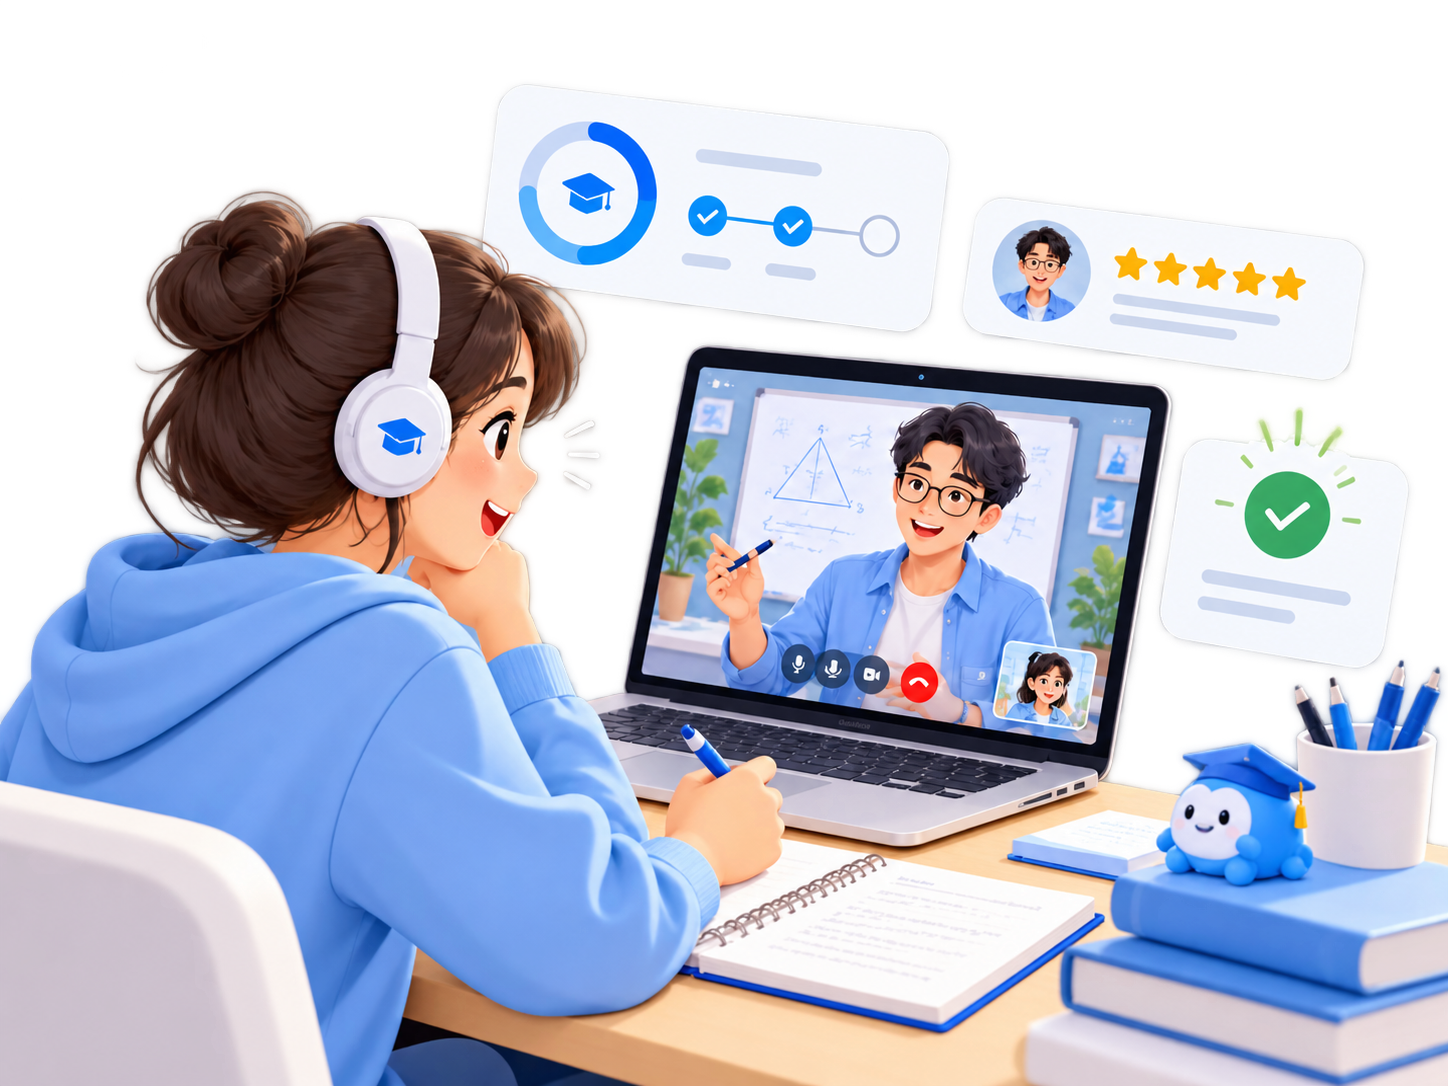
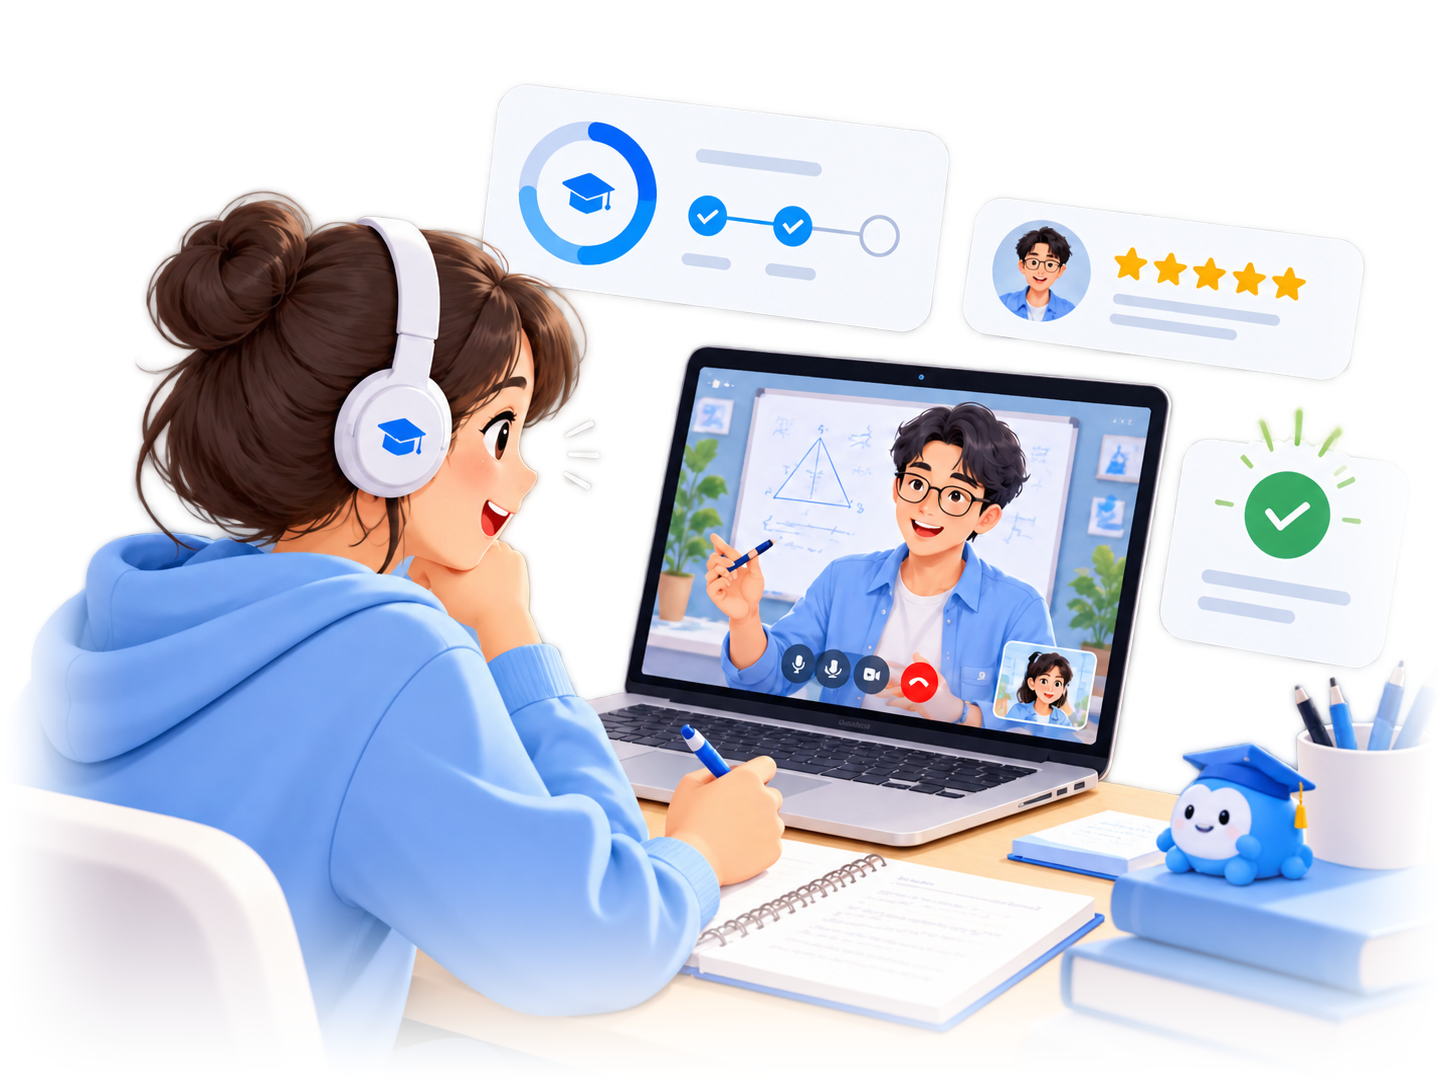
feat(auth): remove 12+ tutors badge and integrate illustration seamlessly with background

Changed region(s): [[0.0, 0.5166, 1.0, 1.0]]

diff --git a/src/frontend/src/pages/auth/Register.jsx b/src/frontend/src/pages/auth/Register.jsx
@@ -1,8 +1,7 @@
-import React, { useState, useEffect } from 'react';
+import React, { useState } from 'react';
 import { useNavigate, Link } from 'react-router-dom';
 import {
   GraduationCap,
-  ShieldCheck,
   BarChart3,
   User,
   Mail,
@@ -11,14 +10,11 @@ import {
   Eye,
   EyeOff,
   ArrowRight,
-  ChevronRight,
   AlertCircle,
 } from 'lucide-react';
 import { cn } from '@/lib/cn';
-import Avatar from '@/components/ui/Avatar';
 import { useToast } from '@/components/ui/Toast';
 import { useAuthStore } from '@/store/authStore';
-import { api } from '@/services/api';
 import { externalAuthService } from '@/services/externalAuth.service';
 import AuthHeader from '@/components/layout/AuthHeader';
 
@@ -61,43 +57,6 @@ export default function Register() {
   const [fieldErrors, setFieldErrors] = useState({});
   const [loading, setLoading] = useState(false);
   const [socialLoading, setSocialLoading] = useState(false);
-
-  // Truy vấn danh sách gia sư cho card minh họa
-  const [tutorStats, setTutorStats] = useState({
-    totalCount: 0,
-    topTutors: [],
-    loading: true,
-  });
-
-  useEffect(() => {
-    const controller = new AbortController();
-
-    api
-      .get('/tutors?pageSize=3', { signal: controller.signal })
-      .then((res) => {
-        const pagedData = res?.data ?? res;
-        const items = Array.isArray(pagedData?.items) ? pagedData.items : [];
-        const count = typeof pagedData?.totalCount === 'number' ? pagedData.totalCount : items.length;
-
-        setTutorStats({
-          totalCount: count,
-          topTutors: items,
-          loading: false,
-        });
-      })
-      .catch((err) => {
-        // Bỏ qua lỗi do hủy request khi component unmount
-        if (err?.name === 'CanceledError' || err?.code === 'ERR_CANCELED') {
-          return;
-        }
-        console.warn('Lỗi kết nối API gia sư cho trang đăng ký:', err);
-        setTutorStats((prev) => ({ ...prev, loading: false }));
-      });
-
-    return () => {
-      controller.abort();
-    };
-  }, []);
 
   // Xóa lỗi inline của trường khi người dùng nhập liệu lại
   const clearFieldError = (field) => {
@@ -336,122 +295,76 @@ export default function Register() {
               <span className="text-neutral-800">{isTutor ? 'Bảo vệ thanh toán 12h' : 'Bảo chứng Escrow 100%'}</span>
             </div>
 
-            {/* Illustration with Dynamic Live Floating Badges */}
-            <div className="relative mt-5 sm:mt-6 max-w-[520px] w-full select-none">
+            {/* Illustration integrated seamlessly into background like hero sections */}
+            <div className="relative mt-5 sm:mt-6 max-w-[520px] w-full select-none flex items-center justify-center">
+              {/* Ambient radial halo glow behind illustration */}
+              <div
+                className={cn(
+                  'pointer-events-none absolute left-1/2 top-1/2 -z-0 h-[320px] w-[320px] sm:h-[380px] sm:w-[380px] -translate-x-1/2 -translate-y-1/2 rounded-full blur-3xl transition-colors duration-500',
+                  isTutor ? 'bg-emerald-100/60' : 'bg-blue-200/50'
+                )}
+                aria-hidden="true"
+              />
+
               {isTutor ? (
-                <div className="relative w-full aspect-[16/10] sm:aspect-[4/3] rounded-2xl overflow-hidden border border-neutral-200/80 shadow-brand-md">
+                <div className="relative z-10 w-full aspect-[16/10] sm:aspect-[4/3] rounded-2xl overflow-hidden shadow-brand-md">
                   <img
                     src="/images/hero-become-tutor.jpg"
                     alt="Gia sư TutorHub giảng dạy chuyên nghiệp"
                     className="w-full h-full object-cover object-center select-none pointer-events-none transition-all duration-300"
                     loading="eager"
                   />
-                  <div className="absolute inset-0 bg-gradient-to-t from-black/25 via-transparent to-transparent pointer-events-none" />
+                  <div className="absolute inset-0 bg-gradient-to-t from-black/20 via-transparent to-transparent pointer-events-none" />
                 </div>
               ) : (
-                <img
-                  src="/images/auth-student-classroom.png"
-                  alt="Hành trình học tập 1 kèm 1 cùng TutorHub"
-                  className="w-full h-auto object-contain select-none pointer-events-none transition-all duration-300"
-                  loading="eager"
-                />
+                <div className="relative z-10 w-full flex items-center justify-center">
+                  <img
+                    src="/images/auth-student-classroom.png"
+                    alt="Hành trình học tập 1 kèm 1 cùng TutorHub"
+                    className="pointer-events-none relative h-auto w-full select-none object-contain transition-all duration-300"
+                    loading="eager"
+                  />
+                </div>
               )}
 
-              {/* Floating Badge 1: Top Right */}
-              {isTutor ? (
-                <div
-                  className="absolute top-4 sm:top-5 right-2 sm:right-3 bg-white/95 backdrop-blur-md p-2.5 sm:p-3 rounded-[16px] sm:rounded-[18px] shadow-brand-md border border-white/80 max-w-[145px] sm:max-w-[160px] text-left z-20 animate-float"
-                  style={{ animationDuration: '5s' }}
-                >
-                  <div className="flex items-center justify-between mb-1">
-                    <div className="w-6 h-6 sm:w-7 sm:h-7 rounded-lg bg-emerald-50 text-emerald-600 flex items-center justify-center">
-                      <BarChart3 className="w-3.5 h-3.5 sm:w-4 sm:h-4" />
+              {/* Floating Badges for Tutor Role */}
+              {isTutor && (
+                <>
+                  <div
+                    className="absolute top-4 sm:top-5 right-2 sm:right-3 bg-white/95 backdrop-blur-md p-2.5 sm:p-3 rounded-[16px] sm:rounded-[18px] shadow-brand-md border border-white/80 max-w-[145px] sm:max-w-[160px] text-left z-20 animate-float"
+                    style={{ animationDuration: '5s' }}
+                  >
+                    <div className="flex items-center justify-between mb-1">
+                      <div className="w-6 h-6 sm:w-7 sm:h-7 rounded-lg bg-emerald-50 text-emerald-600 flex items-center justify-center">
+                        <BarChart3 className="w-3.5 h-3.5 sm:w-4 sm:h-4" />
+                      </div>
+                      <div className="w-4 h-4 sm:w-5 sm:h-5 rounded-full bg-emerald-50 text-emerald-600 flex items-center justify-center text-[9px] sm:text-[10px] font-bold">
+                        ✓
+                      </div>
                     </div>
-                    <div className="w-4 h-4 sm:w-5 sm:h-5 rounded-full bg-emerald-50 text-emerald-600 flex items-center justify-center text-[9px] sm:text-[10px] font-bold">
-                      ✓
-                    </div>
-                  </div>
-                  <p className="text-[12px] sm:text-[13px] font-bold text-fg leading-tight mt-1">
-                    Thu nhập linh hoạt
-                  </p>
-                  <p className="text-[9.5px] sm:text-[10.5px] text-neutral-500 leading-snug mt-0.5">
-                    Tự định giá & nhận giải ngân minh bạch 12h
-                  </p>
-                </div>
-              ) : null}
-
-              {/* Floating Badge 2: Bottom Left */}
-              {isTutor ? (
-                <div
-                  className="absolute bottom-4 sm:bottom-6 left-2 sm:left-3 bg-white/95 backdrop-blur-md p-2 sm:p-2.5 sm:px-3.5 rounded-xl sm:rounded-2xl shadow-brand-md border border-white/80 flex items-center gap-2 sm:gap-3 z-20 animate-float"
-                  style={{ animationDuration: '4.5s', animationDelay: '0.8s' }}
-                >
-                  <div className="w-8 h-8 rounded-xl bg-emerald-50 text-emerald-600 flex items-center justify-center shrink-0">
-                    <GraduationCap className="w-4 h-4" />
-                  </div>
-                  <div className="leading-tight text-left pr-0.5">
-                    <p className="text-[12px] sm:text-[13px] font-bold text-fg">
-                      1,000+ học viên
+                    <p className="text-[12px] sm:text-[13px] font-bold text-fg leading-tight mt-1">
+                      Thu nhập linh hoạt
                     </p>
-                    <p className="text-[10px] sm:text-[10.5px] text-neutral-500 mt-0.5">Đang tìm kiếm gia sư phù hợp</p>
+                    <p className="text-[9.5px] sm:text-[10.5px] text-neutral-500 leading-snug mt-0.5">
+                      Tự định giá & nhận giải ngân minh bạch 12h
+                    </p>
                   </div>
-                </div>
-              ) : (
-                <Link
-                  to="/"
-                  className="absolute -bottom-3 sm:-bottom-4 left-2 sm:left-3 bg-white/95 backdrop-blur-md p-2 sm:p-2.5 sm:px-3.5 rounded-xl sm:rounded-2xl shadow-brand-md border border-white/80 flex items-center gap-2 sm:gap-3 z-20 group hover:shadow-brand-lg transition-all animate-float cursor-pointer"
-                  style={{ animationDuration: '4.5s', animationDelay: '0.8s' }}
-                  title="Khám phá danh sách gia sư chất lượng"
-                >
-                  {tutorStats.loading ? (
-                    <>
-                      <div className="flex -space-x-2 overflow-hidden py-0.5 pl-0.5">
-                        <div className="w-7 h-7 sm:w-8 sm:h-8 rounded-full bg-neutral-200 animate-pulse ring-2 ring-white shrink-0" />
-                        <div className="w-7 h-7 sm:w-8 sm:h-8 rounded-full bg-neutral-200 animate-pulse ring-2 ring-white shrink-0" />
-                        <div className="w-7 h-7 sm:w-8 sm:h-8 rounded-full bg-neutral-200 animate-pulse ring-2 ring-white shrink-0" />
-                      </div>
-                      <div className="leading-tight text-left pr-0.5 space-y-1">
-                        <div className="h-3 w-24 bg-neutral-200 rounded animate-pulse" />
-                        <div className="h-2.5 w-32 bg-neutral-100 rounded animate-pulse" />
-                      </div>
-                    </>
-                  ) : (
-                    <>
-                      {/* Real Database Tutor Avatars */}
-                      <div className="flex -space-x-2 overflow-hidden py-0.5 pl-0.5">
-                        {tutorStats.topTutors.length > 0 ? (
-                          tutorStats.topTutors.slice(0, 3).map((tutor, idx) => (
-                            <Avatar
-                              key={tutor.id || idx}
-                              src={tutor.avatarUrl}
-                              name={tutor.fullName}
-                              size="sm"
-                              title={tutor.fullName}
-                              className="inline-block h-7 w-7 sm:h-8 sm:w-8 ring-2 ring-white shrink-0"
-                            />
-                          ))
-                        ) : (
-                          <div className="w-7 h-7 sm:w-8 sm:h-8 rounded-full bg-brand-primary-100 text-brand-primary-600 flex items-center justify-center shrink-0">
-                            <GraduationCap className="w-4 h-4" />
-                          </div>
-                        )}
-                      </div>
 
-                      <div className="leading-tight text-left pr-0.5">
-                        <p className="text-[12px] sm:text-[13px] font-bold text-fg group-hover:text-brand-primary-600 transition-colors">
-                          {tutorStats.totalCount > 0
-                            ? `${tutorStats.totalCount}+ gia sư chất lượng`
-                            : 'Đội ngũ gia sư chất lượng'}
-                        </p>
-                        <p className="text-[10px] sm:text-[10.5px] text-neutral-500 mt-0.5">Sẵn sàng đồng hành cùng bạn</p>
-                      </div>
-                    </>
-                  )}
-
-                  <span className="w-5 h-5 rounded-full bg-neutral-100 text-fg-muted flex items-center justify-center group-hover:bg-brand-primary-50 group-hover:text-brand-primary-600 transition-colors shrink-0">
-                    <ChevronRight className="w-3.5 h-3.5" />
-                  </span>
-                </Link>
+                  <div
+                    className="absolute bottom-4 sm:bottom-6 left-2 sm:left-3 bg-white/95 backdrop-blur-md p-2 sm:p-2.5 sm:px-3.5 rounded-xl sm:rounded-2xl shadow-brand-md border border-white/80 flex items-center gap-2 sm:gap-3 z-20 animate-float"
+                    style={{ animationDuration: '4.5s', animationDelay: '0.8s' }}
+                  >
+                    <div className="w-8 h-8 rounded-xl bg-emerald-50 text-emerald-600 flex items-center justify-center shrink-0">
+                      <GraduationCap className="w-4 h-4" />
+                    </div>
+                    <div className="leading-tight text-left pr-0.5">
+                      <p className="text-[12px] sm:text-[13px] font-bold text-fg">
+                        1,000+ học viên
+                      </p>
+                      <p className="text-[10px] sm:text-[10.5px] text-neutral-500 mt-0.5">Đang tìm kiếm gia sư phù hợp</p>
+                    </div>
+                  </div>
+                </>
               )}
             </div>
           </section>
